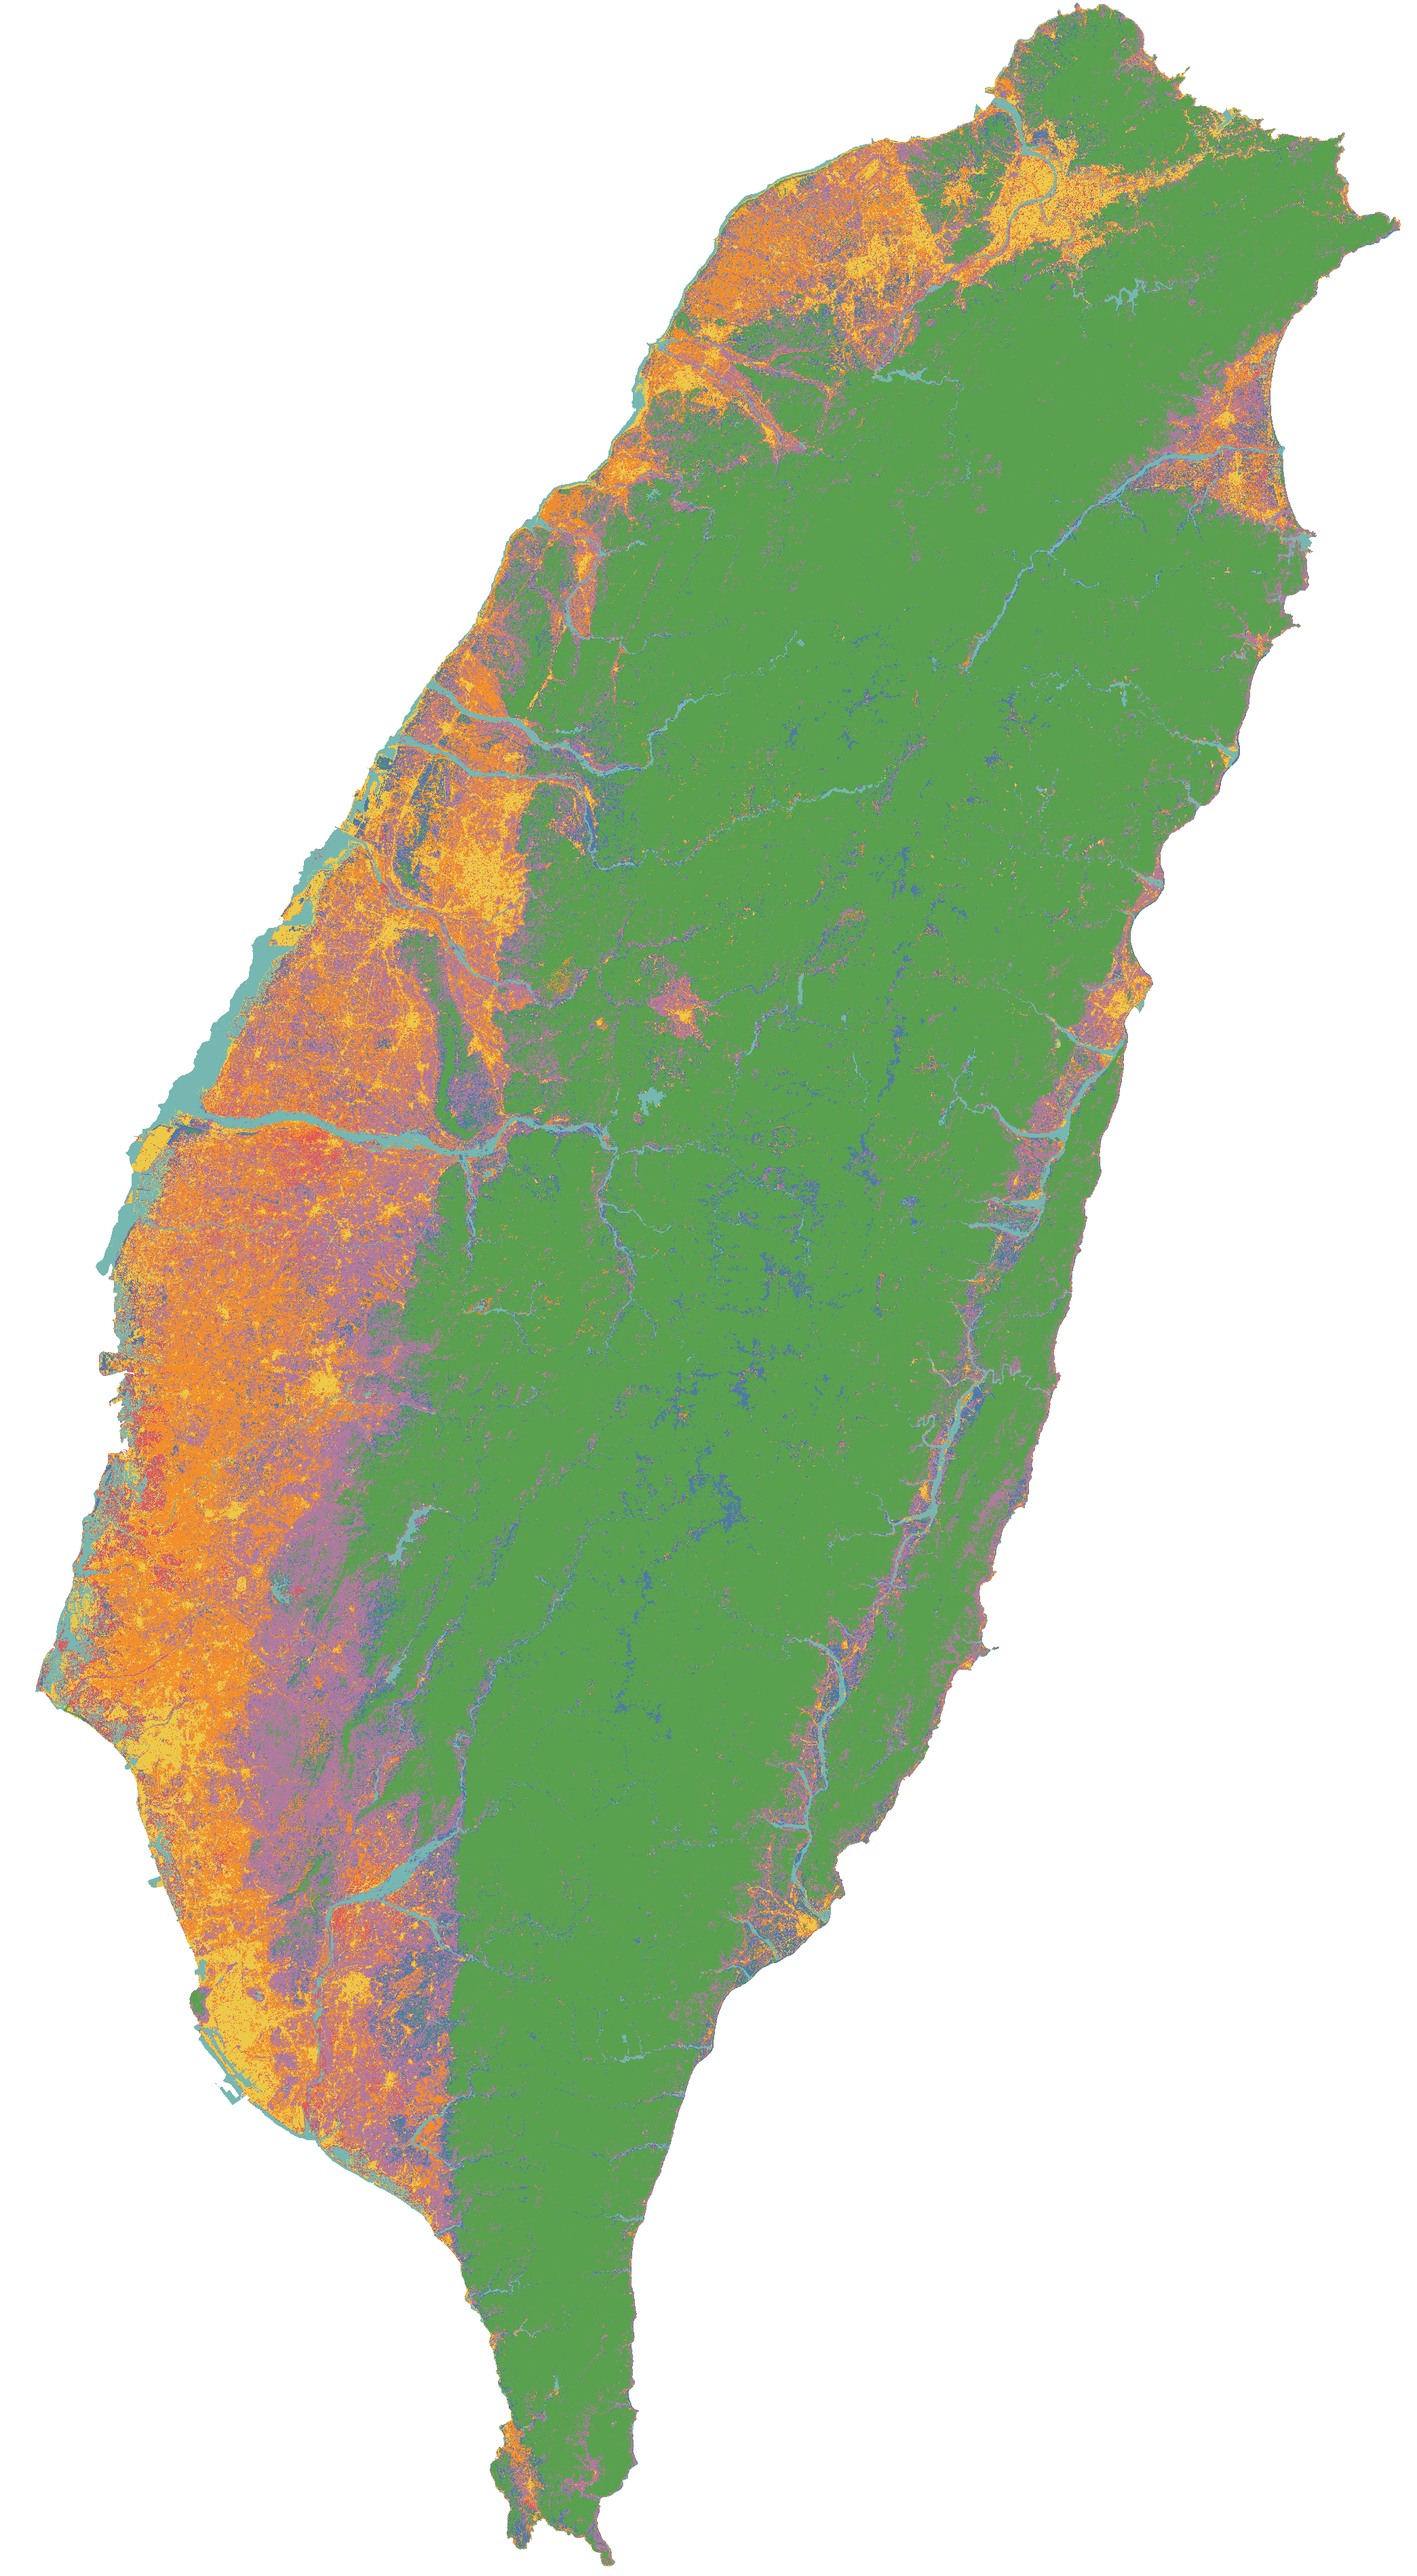
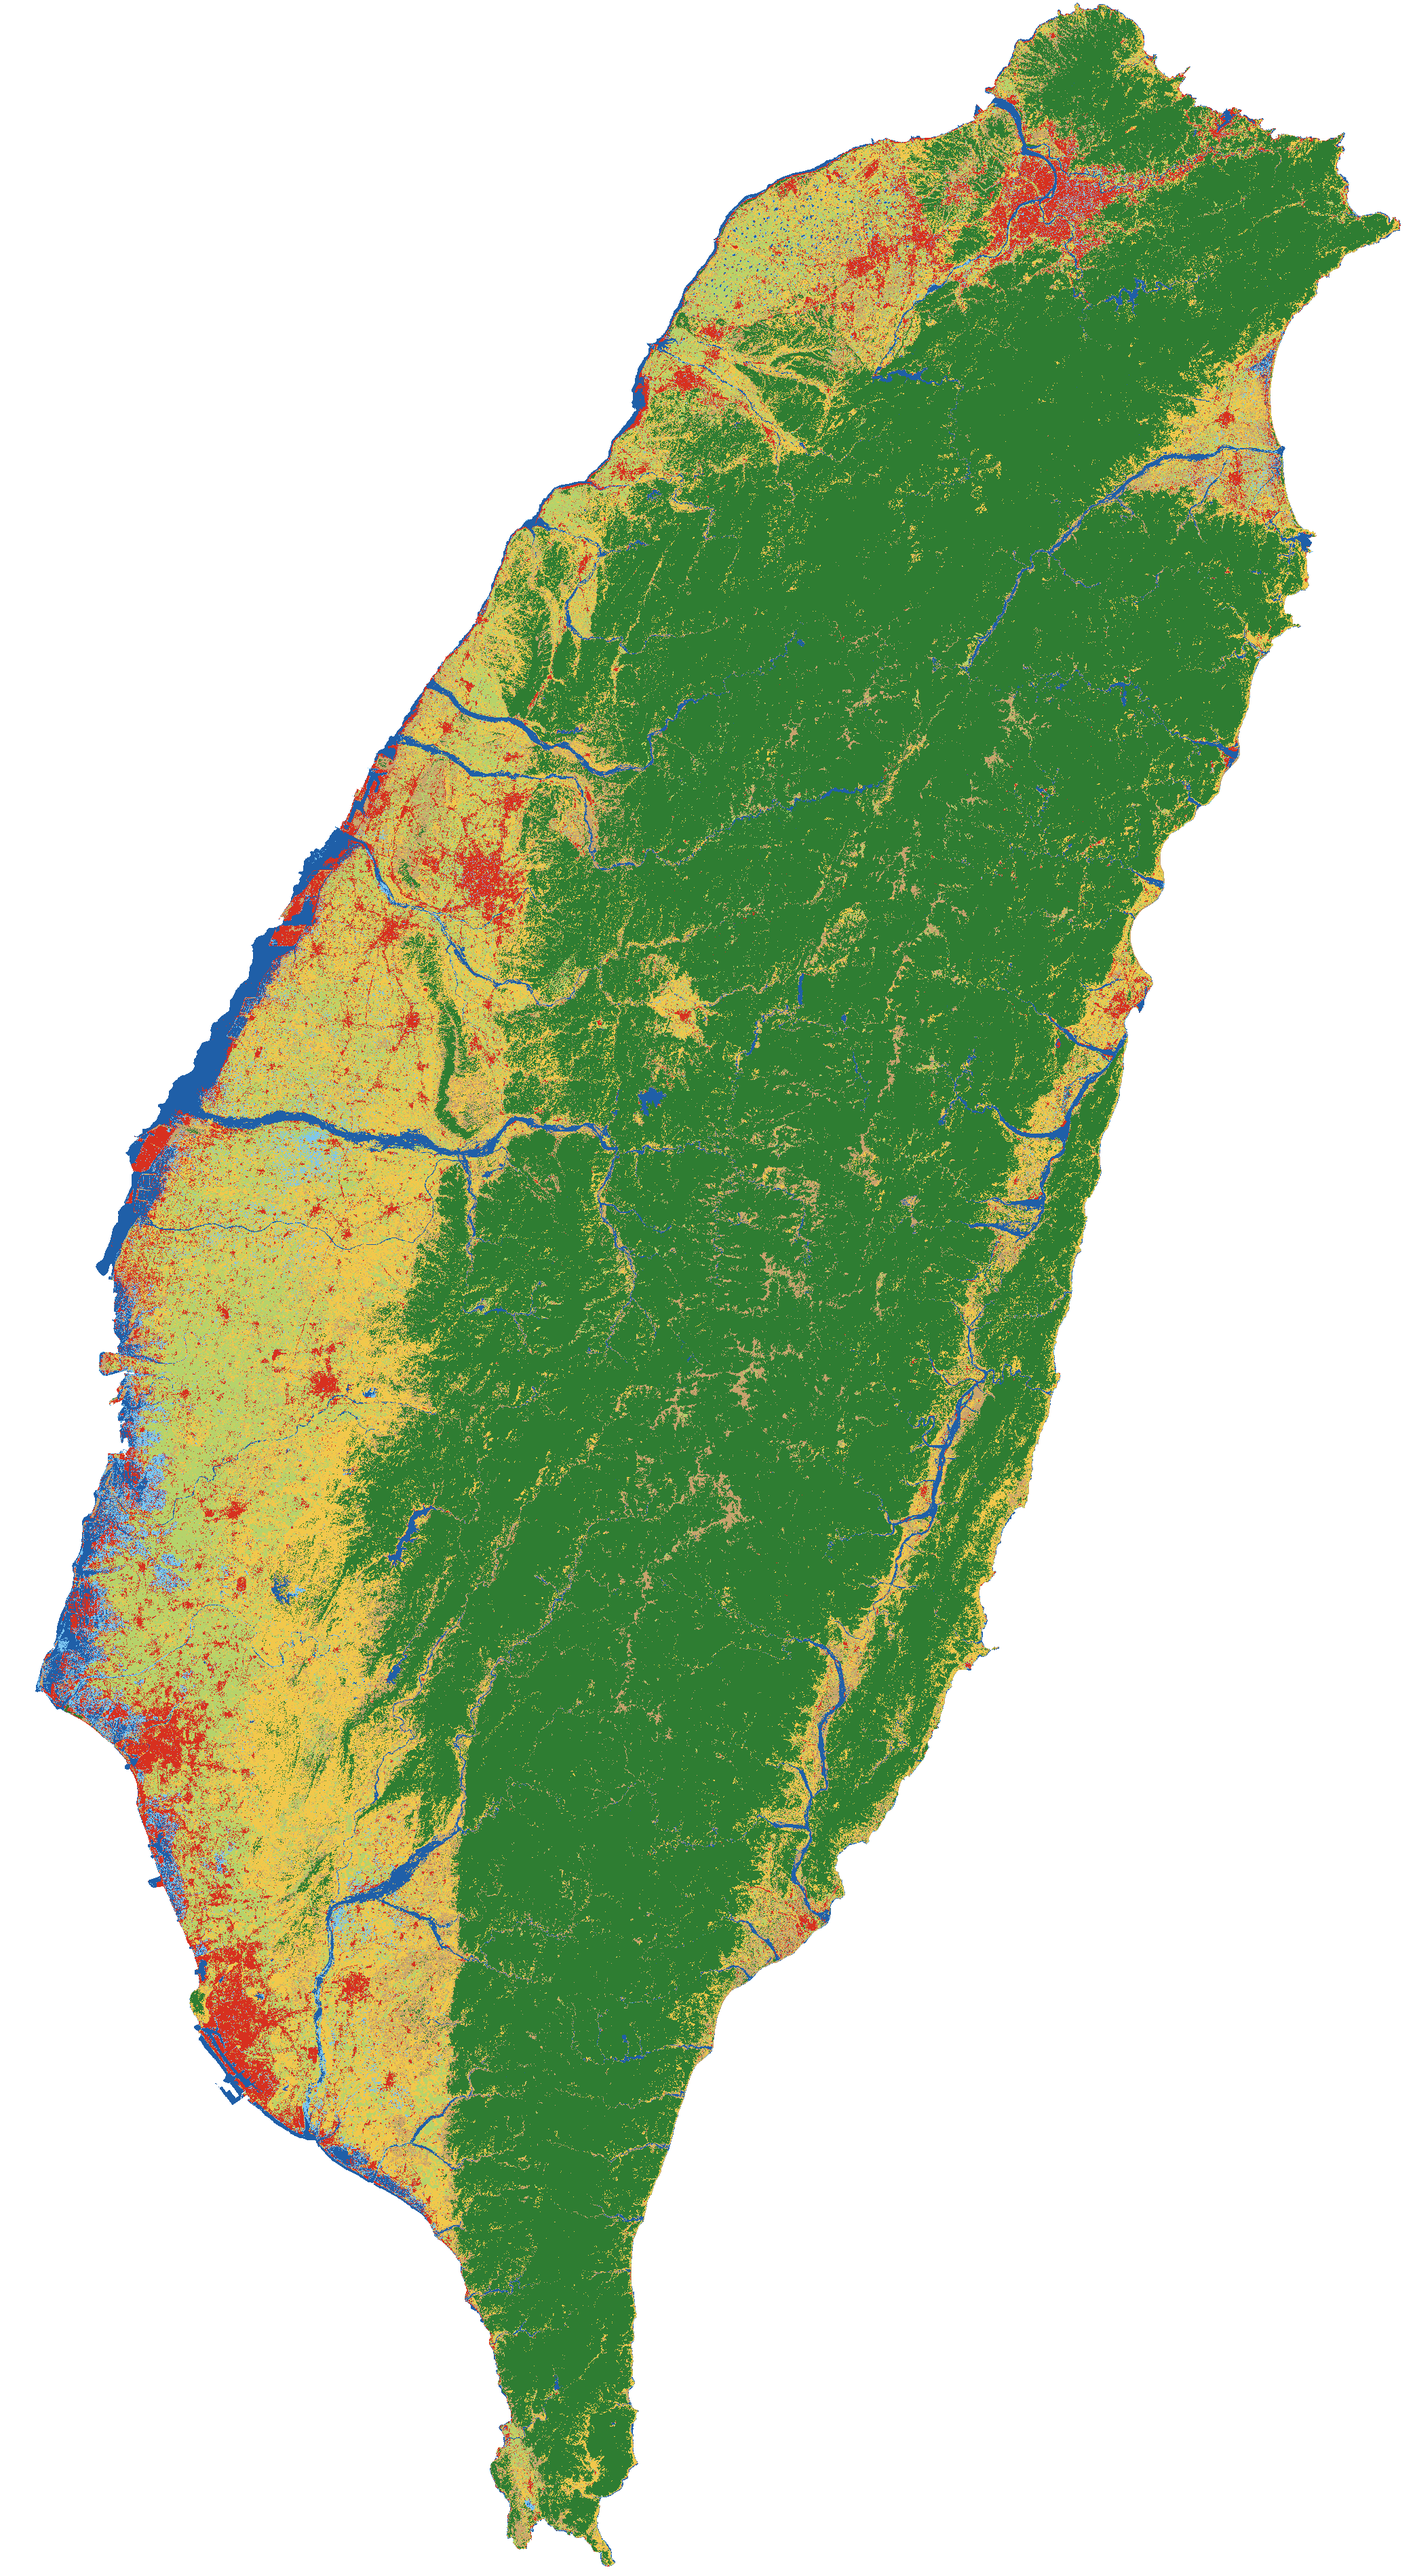
Use real LULC class names and colours from the source paper
Class codes matched to paper's reported 2020 class areas.

diff --git a/docs/data/lulc.js b/docs/data/lulc.js
@@ -11,32 +11,32 @@ window.LULC = {
  ],
  "classes": {
   "1": {
-   "name": "Class 1",
-   "color": "#4e79a7"
+   "name": "Barren",
+   "color": "#c8a26e"
   },
   "2": {
-   "name": "Class 2",
-   "color": "#f28e2b"
+   "name": "Uncultivated",
+   "color": "#b5d36b"
   },
   "3": {
-   "name": "Class 3",
-   "color": "#e15759"
+   "name": "Water Shallow",
+   "color": "#7cc6f2"
   },
   "4": {
-   "name": "Class 4",
-   "color": "#76b7b2"
+   "name": "Water Deep",
+   "color": "#1f5fa8"
   },
   "5": {
-   "name": "Class 5",
-   "color": "#edc948"
+   "name": "Built-up",
+   "color": "#d7301f"
   },
   "6": {
-   "name": "Class 6",
-   "color": "#59a14f"
+   "name": "Forest",
+   "color": "#2e7d32"
   },
   "7": {
-   "name": "Class 7",
-   "color": "#b07aa1"
+   "name": "Cultivated",
+   "color": "#f2c84b"
   }
  },
  "layers": [
